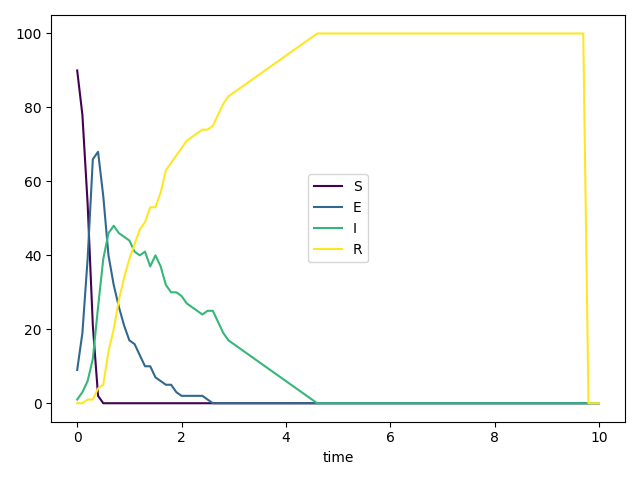
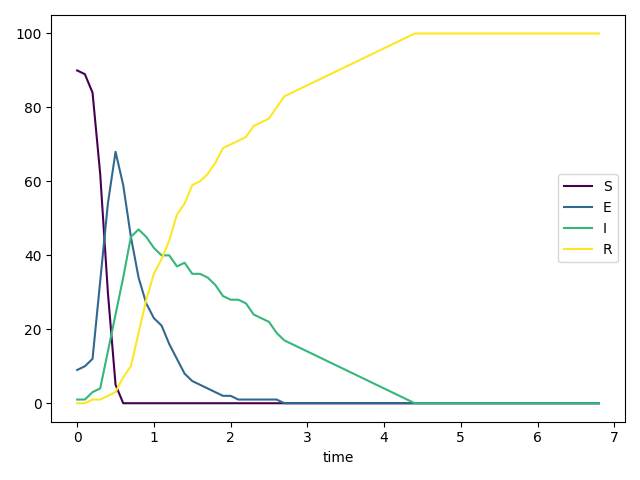
Fixed removed_zero_row()

diff --git a/seirmo/plots/_plot_from_numpy.py b/seirmo/plots/_plot_from_numpy.py
@@ -7,14 +7,16 @@ class StochasticPlotter():
     def __init__(self, data_array: np.array):
         self._data = data_array
 
-    def plot(self, labels: list, filename: str = 'SEIR_stochastic_simulation.png'):
+    def plot(self, labels: list,
+             filename: str = 'SEIR_stochastic_simulation.png'):
         new_data = self.remove_zero_row()
+        print(new_data)
         time = new_data[:, 0]
         data = new_data[:, 1:]
         fig, axes = plt.subplots()
         colours = plt.cm.viridis(np.linspace(0, 1, len(labels)))
         for i in range(4):
-            axes.plot(time, data[:, i], color=colours[i], 
+            axes.plot(time, data[:, i], color=colours[i],
                       label=labels[i])
         axes.legend()
         plt.xlabel('time')
@@ -23,9 +25,12 @@ class StochasticPlotter():
         plt.show()
 
     def remove_zero_row(self):
-        for i in range(len(self._data.shape[0])):
-            if self._data[i, 1:] != np.zeros(4):
-                i += 1
-        self._reduced_data = self._data[:i+1, :]
+        for i in range(self._data.shape[0]):
+            if np.all(self._data[i, 1:] == 0):
+                break
+        self._reduced_data = self._data[:i, :]
         return self._reduced_data
 
+# I still think it would be better to initialise the output array
+# with nans to avoid this though - as much as anything, having a row
+# of all zeros might be a valid solution! - KG
